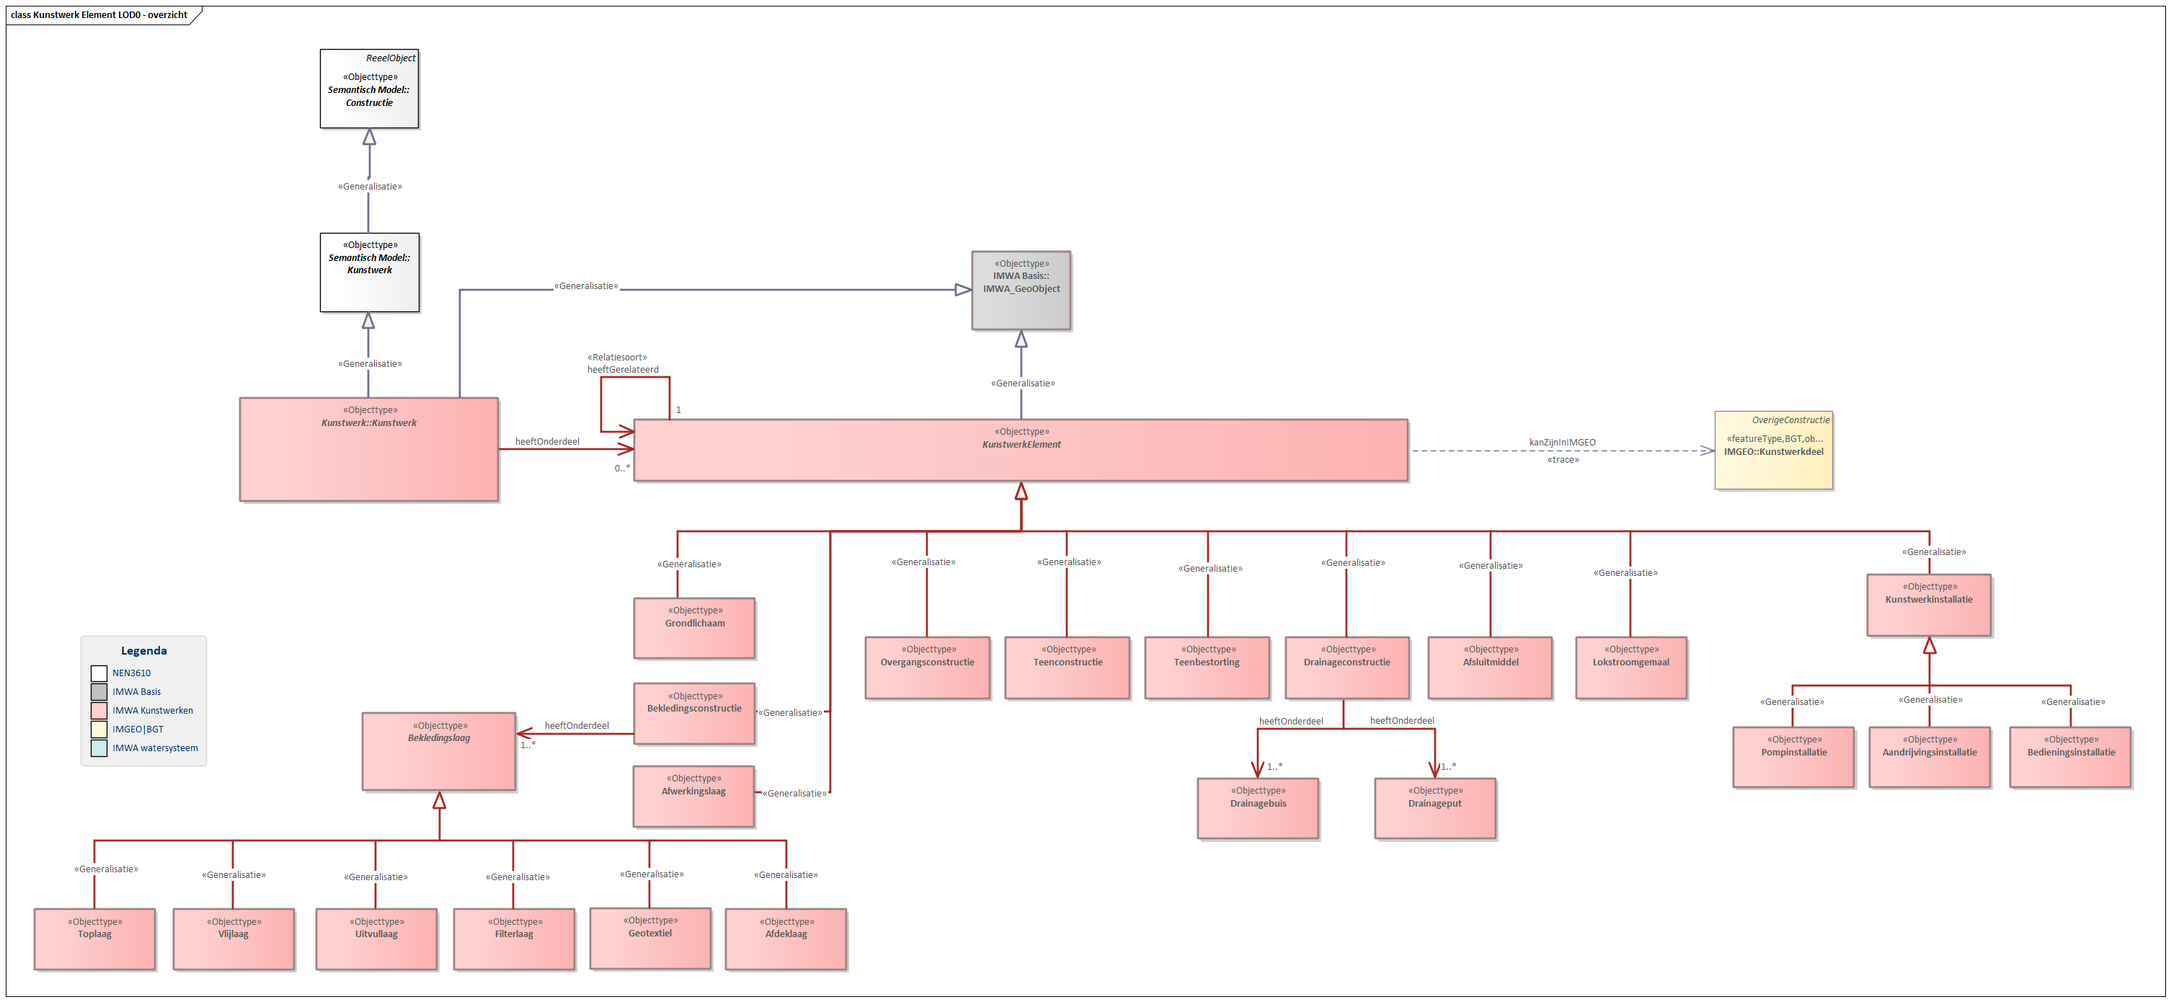
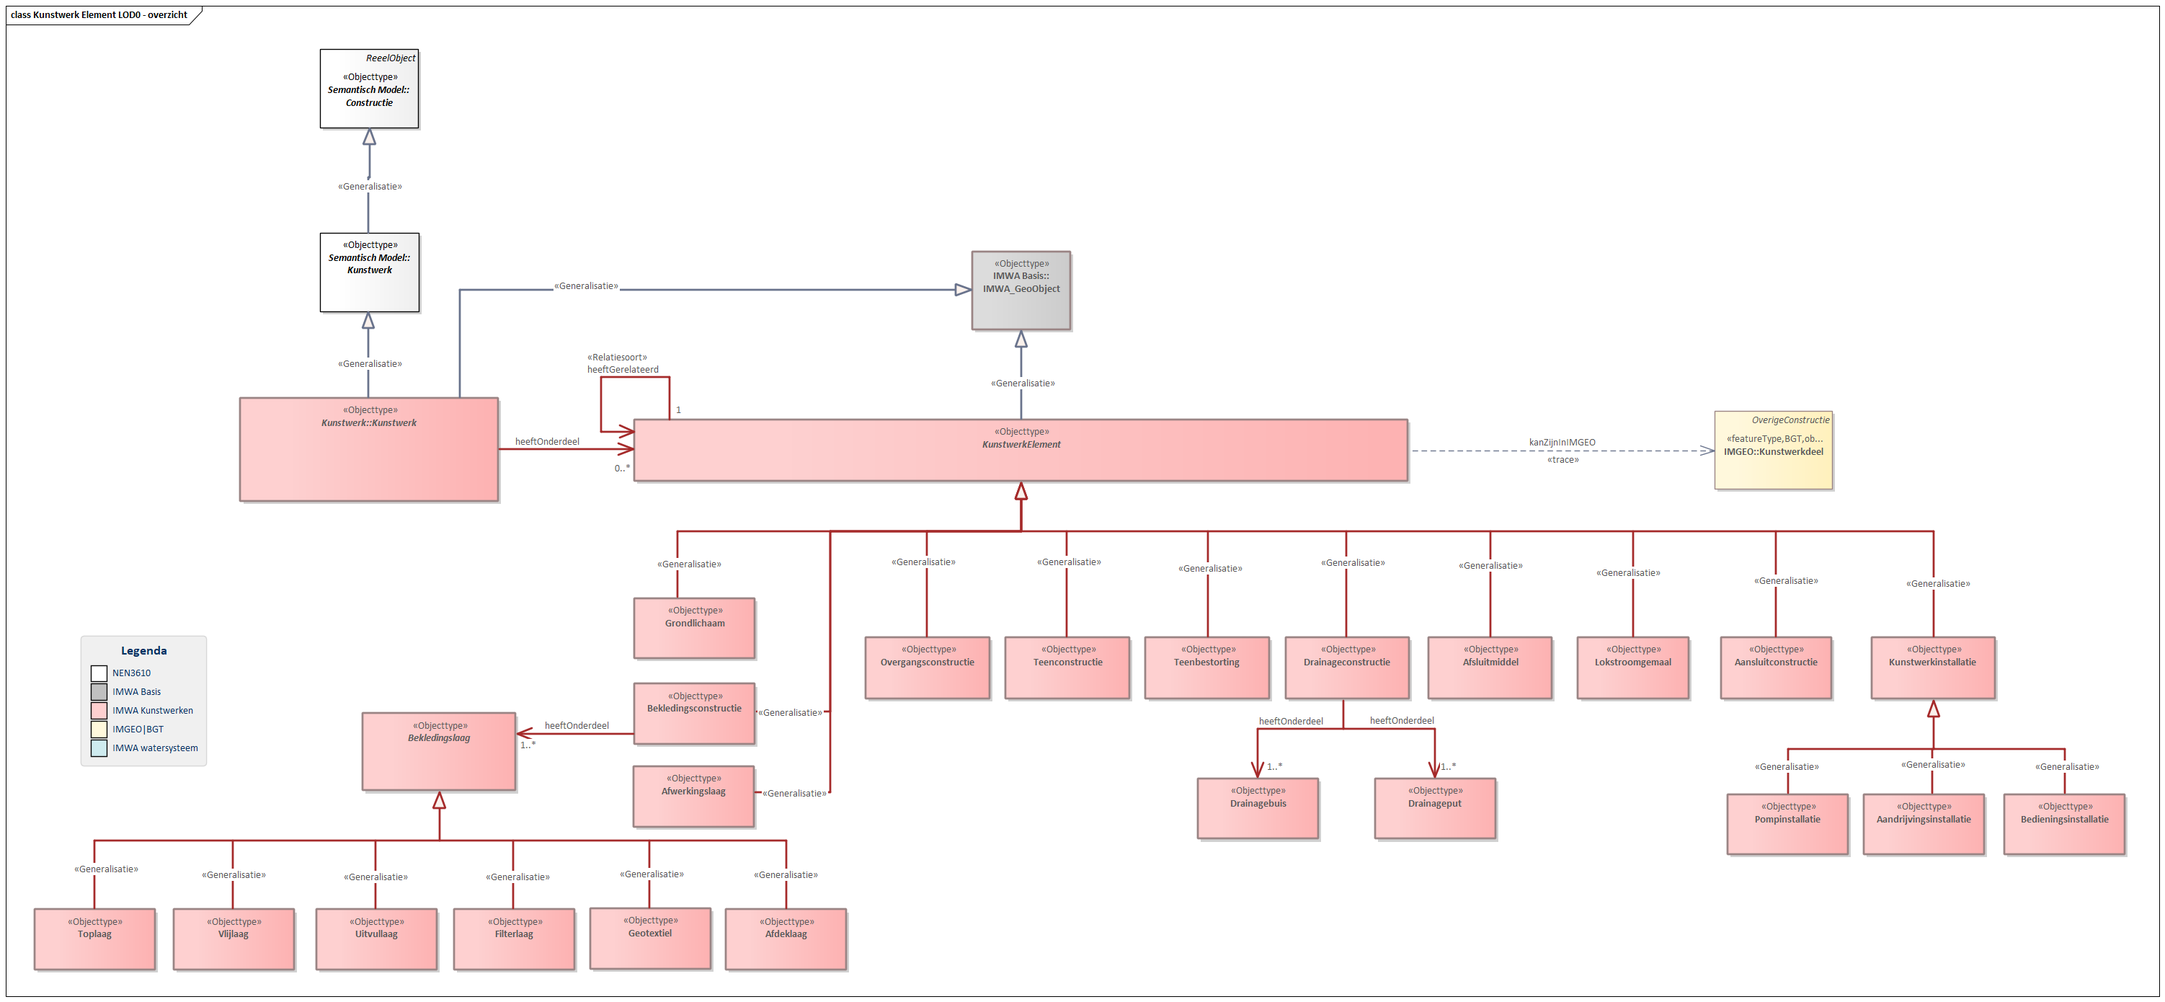
SIM-IMWA2024Kunstwerkenredesign-2024.1.0-1-20231026-20250303-144703

diff --git a/data/IMWA-KW-cat.respec.full.html b/data/IMWA-KW-cat.respec.full.html
@@ -32,7 +32,7 @@
       </section>
       <section id="sotd">
          <p>
-            Deze documentatie van het conceptueel model is laatst bijgewerkt op March 3, 2025 at 14:31:16.
+            Deze documentatie van het conceptueel model is laatst bijgewerkt op March 3, 2025 at 14:47:31.
             </p>
       </section>
       <section id="prologue" class="informative" level="1">
@@ -44,7 +44,7 @@
       <section id="cat" class="normative">
          <h2>Gegevensdefinitie</h2>
          <p><b>Deze tekst is normatief.</b>
-            <!--SIM-IMWA2024Kunstwerkenredesign-2024.1.0-1-20231026-20250303-143042 imvertor 4.0.0--></p>
+            <!--SIM-IMWA2024Kunstwerkenredesign-2024.1.0-1-20231026-20250303-144703 imvertor 4.0.0--></p>
          <section id="global_package_Kunstwerk">
             <h3>Domein   Kunstwerk</h3>
             <div class="imageinfo overview"><img src="data/Images/EAID_EDE5847C_82B0_4782_A4E9_5D8724544648.png" usemap="#imagemap-EAID_EDE5847C_82B0_4782_A4E9_5D8724544648" alt="Diagram: IMWA Kunstwerken LOD0 - overzicht"><map name="imagemap-EAID_EDE5847C_82B0_4782_A4E9_5D8724544648"><area shape="rect" alt="Strekdam" coords="370,996,529,1091" href="#global_class_Kunstwerk_Strekdam"><area shape="rect" alt="Kunstwerkcomplex" coords="964,622,1188,709" href="#global_class_Kunstwerk_Kunstwerkcomplex"><area shape="rect" alt="Doorstroomopening" coords="1816,767,2040,854" href="#global_class_Kunstwerk_Doorstroomopening"><area shape="rect" alt="Vispassage" coords="1357,995,1516,1089" href="#global_class_Kunstwerk_Vispassage"><area shape="rect" alt="Verbeterinstallatie" coords="1259,1132,1417,1226" href="#global_class_Kunstwerk_Verbeterinstallatie"><area shape="rect" alt="Vuilvang" coords="1456,1133,1614,1227" href="#global_class_Kunstwerk_Vuilvang"><area shape="rect" alt="Gemaal" coords="668,1132,827,1226" href="#global_class_Kunstwerk_Gemaal"><area shape="rect" alt="Overkluizing" coords="2032,995,2191,1089" href="#global_class_Kunstwerk_Overkluizing"><area shape="rect" alt="Tunnel" coords="2796,995,2955,1089" href="#global_class_Kunstwerk_Tunnel"><area shape="rect" alt="Coupure" coords="1062,1132,1220,1226" href="#global_class_Kunstwerk_Coupure"><area shape="rect" alt="Bodemval" coords="570,995,728,1089" href="#global_class_Kunstwerk_Bodemval"><area shape="rect" alt="Voorde" coords="1160,995,1319,1089" href="#global_class_Kunstwerk_Voorde"><area shape="rect" alt="Aquaduct" coords="1852,995,2010,1089" href="#global_class_Kunstwerk_Aquaduct"><area shape="rect" alt="Stuw" coords="767,995,925,1089" href="#global_class_Kunstwerk_Stuw"><area shape="rect" alt="Sifon" coords="2614,995,2773,1089" href="#global_class_Kunstwerk_Sifon"><area shape="rect" alt="Hevel" coords="2433,995,2591,1089" href="#global_class_Kunstwerk_Hevel"><area shape="rect" alt="Duiker" coords="2251,995,2409,1089" href="#global_class_Kunstwerk_Duiker"><area shape="rect" alt="Zandvang" coords="964,995,1122,1089" href="#global_class_Kunstwerk_Zandvang"><area shape="rect" alt="Brug" coords="1671,995,1830,1089" href="#global_class_Kunstwerk_Brug"><area shape="rect" alt="Sluis" coords="865,1132,1024,1226" href="#global_class_Kunstwerk_Sluis"><area shape="rect" alt="Kunstwerk" coords="1257,709,1615,854" href="#global_class_Kunstwerk_Kunstwerk"><area shape="rect" alt="Golfbreker" coords="469,1132,627,1226" href="#global_class_Kunstwerk_Golfbreker"><area shape="rect" alt="Dijk" coords="56,1132,215,1226" href="#global_class_Kunstwerk_Dijk"><area shape="rect" alt="Wandconstructie" coords="150,996,309,1091" href="#global_class_Kunstwerk_Wandconstructie"><area shape="rect" alt="VasteDam" coords="268,1132,426,1226" href="#global_class_Kunstwerk_VasteDam"></map><p><b>IMWA Kunstwerken LOD0 - overzicht</b>
@@ -5285,7 +5285,7 @@
          </section>
          <section id="global_package_KunstwerkElement">
             <h3>Domein   Kunstwerk Element</h3>
-            <div class="imageinfo overview"><img src="data/Images/EAID_7CF75127_DC22_4b0d_80C4_33D8ACF9F52C.png" usemap="#imagemap-EAID_7CF75127_DC22_4b0d_80C4_33D8ACF9F52C" alt="Diagram: Kunstwerk Element LOD0 - overzicht"><map name="imagemap-EAID_7CF75127_DC22_4b0d_80C4_33D8ACF9F52C"><area shape="rect" alt="Lokstroomgemaal" coords="2187,884,2341,970" href="#global_class_KunstwerkElement_Lokstroomgemaal"><area shape="rect" alt="Overgangsconstructie" coords="1201,884,1374,970" href="#global_class_KunstwerkElement_Overgangsconstructie"><area shape="rect" alt="Teenconstructie" coords="1395,884,1568,970" href="#global_class_KunstwerkElement_Teenconstructie"><area shape="rect" alt="Drainageconstructie" coords="1784,884,1956,970" href="#global_class_KunstwerkElement_Drainageconstructie"><area shape="rect" alt="Drainageput" coords="1908,1080,2076,1164" href="#global_class_KunstwerkElement_Drainageput"><area shape="rect" alt="Drainagebuis" coords="1662,1080,1830,1164" href="#global_class_KunstwerkElement_Drainagebuis"><area shape="rect" alt="Teenbestorting" coords="1589,884,1762,970" href="#global_class_KunstwerkElement_Teenbestorting"><area shape="rect" alt="Grondlichaam" coords="880,830,1048,914" href="#global_class_KunstwerkElement_Grondlichaam"><area shape="rect" alt="Afwerkingslaag" coords="879,1063,1047,1148" href="#global_class_KunstwerkElement_Afwerkingslaag"><area shape="rect" alt="Uitvullaag" coords="439,1261,607,1346" href="#global_class_KunstwerkElement_Uitvullaag"><area shape="rect" alt="Toplaag" coords="48,1261,216,1346" href="#global_class_KunstwerkElement_Toplaag"><area shape="rect" alt="Geotextiel" coords="819,1260,987,1345" href="#global_class_KunstwerkElement_Geotextiel"><area shape="rect" alt="Vlijlaag" coords="241,1261,409,1346" href="#global_class_KunstwerkElement_Vlijlaag"><area shape="rect" alt="Filterlaag" coords="630,1261,798,1346" href="#global_class_KunstwerkElement_Filterlaag"><area shape="rect" alt="Afdeklaag" coords="1007,1261,1175,1346" href="#global_class_KunstwerkElement_Afdeklaag"><area shape="rect" alt="Bekledingslaag" coords="503,989,716,1097" href="#global_class_KunstwerkElement_Bekledingslaag"><area shape="rect" alt="Bekledingsconstructie" coords="880,948,1048,1033" href="#global_class_KunstwerkElement_Bekledingsconstructie"><area shape="rect" alt="Bedieningsinstallatie" coords="2789,1009,2957,1093" href="#global_class_KunstwerkElement_Bedieningsinstallatie"><area shape="rect" alt="Kunstwerkinstallatie" coords="2591,797,2763,883" href="#global_class_KunstwerkElement_Kunstwerkinstallatie"><area shape="rect" alt="Aandrijvingsinstallatie" coords="2594,1009,2762,1093" href="#global_class_KunstwerkElement_Aandrijvingsinstallatie"><area shape="rect" alt="KunstwerkElement" coords="880,582,1954,668" href="#global_class_KunstwerkElement_KunstwerkElement"><area shape="rect" alt="Afsluitmiddel" coords="1982,884,2154,970" href="#global_class_KunstwerkElement_Afsluitmiddel"><area shape="rect" alt="Pompinstallatie" coords="2405,1009,2573,1093" href="#global_class_KunstwerkElement_Pompinstallatie"><area shape="rect" alt="Kunstwerk" coords="333,552,692,696" href="#global_class_Kunstwerk_Kunstwerk"></map><p><b>Kunstwerk Element LOD0 - overzicht</b>
+            <div class="imageinfo overview"><img src="data/Images/EAID_7CF75127_DC22_4b0d_80C4_33D8ACF9F52C.png" usemap="#imagemap-EAID_7CF75127_DC22_4b0d_80C4_33D8ACF9F52C" alt="Diagram: Kunstwerk Element LOD0 - overzicht"><map name="imagemap-EAID_7CF75127_DC22_4b0d_80C4_33D8ACF9F52C"><area shape="rect" alt="Aansluitconstructie" coords="2388,884,2542,970" href="#global_class_KunstwerkElement_Aansluitconstructie"><area shape="rect" alt="Lokstroomgemaal" coords="2189,884,2344,970" href="#global_class_KunstwerkElement_Lokstroomgemaal"><area shape="rect" alt="Overgangsconstructie" coords="1201,884,1374,970" href="#global_class_KunstwerkElement_Overgangsconstructie"><area shape="rect" alt="Teenconstructie" coords="1395,884,1568,970" href="#global_class_KunstwerkElement_Teenconstructie"><area shape="rect" alt="Drainageconstructie" coords="1784,884,1956,970" href="#global_class_KunstwerkElement_Drainageconstructie"><area shape="rect" alt="Drainageput" coords="1908,1080,2076,1164" href="#global_class_KunstwerkElement_Drainageput"><area shape="rect" alt="Drainagebuis" coords="1662,1080,1830,1164" href="#global_class_KunstwerkElement_Drainagebuis"><area shape="rect" alt="Teenbestorting" coords="1589,884,1762,970" href="#global_class_KunstwerkElement_Teenbestorting"><area shape="rect" alt="Grondlichaam" coords="880,830,1048,914" href="#global_class_KunstwerkElement_Grondlichaam"><area shape="rect" alt="Afwerkingslaag" coords="879,1063,1047,1148" href="#global_class_KunstwerkElement_Afwerkingslaag"><area shape="rect" alt="Uitvullaag" coords="439,1261,607,1346" href="#global_class_KunstwerkElement_Uitvullaag"><area shape="rect" alt="Toplaag" coords="48,1261,216,1346" href="#global_class_KunstwerkElement_Toplaag"><area shape="rect" alt="Geotextiel" coords="819,1260,987,1345" href="#global_class_KunstwerkElement_Geotextiel"><area shape="rect" alt="Vlijlaag" coords="241,1261,409,1346" href="#global_class_KunstwerkElement_Vlijlaag"><area shape="rect" alt="Filterlaag" coords="630,1261,798,1346" href="#global_class_KunstwerkElement_Filterlaag"><area shape="rect" alt="Afdeklaag" coords="1007,1261,1175,1346" href="#global_class_KunstwerkElement_Afdeklaag"><area shape="rect" alt="Bekledingslaag" coords="503,989,716,1097" href="#global_class_KunstwerkElement_Bekledingslaag"><area shape="rect" alt="Bekledingsconstructie" coords="880,948,1048,1033" href="#global_class_KunstwerkElement_Bekledingsconstructie"><area shape="rect" alt="Bedieningsinstallatie" coords="2781,1102,2949,1186" href="#global_class_KunstwerkElement_Bedieningsinstallatie"><area shape="rect" alt="Kunstwerkinstallatie" coords="2597,884,2769,970" href="#global_class_KunstwerkElement_Kunstwerkinstallatie"><area shape="rect" alt="Aandrijvingsinstallatie" coords="2586,1102,2754,1186" href="#global_class_KunstwerkElement_Aandrijvingsinstallatie"><area shape="rect" alt="KunstwerkElement" coords="880,582,1954,668" href="#global_class_KunstwerkElement_KunstwerkElement"><area shape="rect" alt="Afsluitmiddel" coords="1982,884,2154,970" href="#global_class_KunstwerkElement_Afsluitmiddel"><area shape="rect" alt="Pompinstallatie" coords="2397,1102,2565,1186" href="#global_class_KunstwerkElement_Pompinstallatie"><area shape="rect" alt="Kunstwerk" coords="333,552,692,696" href="#global_class_Kunstwerk_Kunstwerk"></map><p><b>Kunstwerk Element LOD0 - overzicht</b>
                   
                   <p></p>
                   </p>

diff --git a/data/IMWA-KW-cat.respec.html b/data/IMWA-KW-cat.respec.html
@@ -32,7 +32,7 @@
       </section>
       <section id="sotd">
          <p>
-            Deze documentatie van het conceptueel model is laatst bijgewerkt op March 3, 2025 at 14:31:17.
+            Deze documentatie van het conceptueel model is laatst bijgewerkt op March 3, 2025 at 14:47:32.
             </p>
       </section>
       <section id="prologue" class="informative" level="1">
@@ -44,7 +44,7 @@
       <section id="cat" class="normative">
          <h2>Gegevensdefinitie</h2>
          <p><b>Deze tekst is normatief.</b>
-            <!--SIM-IMWA2024Kunstwerkenredesign-2024.1.0-1-20231026-20250303-143042 imvertor 4.0.0--></p>
+            <!--SIM-IMWA2024Kunstwerkenredesign-2024.1.0-1-20231026-20250303-144703 imvertor 4.0.0--></p>
          <section id="global_package_Kunstwerk">
             <h3>Domein   Kunstwerk</h3>
             <div class="imageinfo overview"><img src="data/Images/EAID_EDE5847C_82B0_4782_A4E9_5D8724544648.png" usemap="#imagemap-EAID_EDE5847C_82B0_4782_A4E9_5D8724544648" alt="Diagram: IMWA Kunstwerken LOD0 - overzicht"><map name="imagemap-EAID_EDE5847C_82B0_4782_A4E9_5D8724544648"><area shape="rect" alt="Strekdam" coords="370,996,529,1091" href="#global_class_Kunstwerk_Strekdam"><area shape="rect" alt="Kunstwerkcomplex" coords="964,622,1188,709" href="#global_class_Kunstwerk_Kunstwerkcomplex"><area shape="rect" alt="Doorstroomopening" coords="1816,767,2040,854" href="#global_class_Kunstwerk_Doorstroomopening"><area shape="rect" alt="Vispassage" coords="1357,995,1516,1089" href="#global_class_Kunstwerk_Vispassage"><area shape="rect" alt="Verbeterinstallatie" coords="1259,1132,1417,1226" href="#global_class_Kunstwerk_Verbeterinstallatie"><area shape="rect" alt="Vuilvang" coords="1456,1133,1614,1227" href="#global_class_Kunstwerk_Vuilvang"><area shape="rect" alt="Gemaal" coords="668,1132,827,1226" href="#global_class_Kunstwerk_Gemaal"><area shape="rect" alt="Overkluizing" coords="2032,995,2191,1089" href="#global_class_Kunstwerk_Overkluizing"><area shape="rect" alt="Tunnel" coords="2796,995,2955,1089" href="#global_class_Kunstwerk_Tunnel"><area shape="rect" alt="Coupure" coords="1062,1132,1220,1226" href="#global_class_Kunstwerk_Coupure"><area shape="rect" alt="Bodemval" coords="570,995,728,1089" href="#global_class_Kunstwerk_Bodemval"><area shape="rect" alt="Voorde" coords="1160,995,1319,1089" href="#global_class_Kunstwerk_Voorde"><area shape="rect" alt="Aquaduct" coords="1852,995,2010,1089" href="#global_class_Kunstwerk_Aquaduct"><area shape="rect" alt="Stuw" coords="767,995,925,1089" href="#global_class_Kunstwerk_Stuw"><area shape="rect" alt="Sifon" coords="2614,995,2773,1089" href="#global_class_Kunstwerk_Sifon"><area shape="rect" alt="Hevel" coords="2433,995,2591,1089" href="#global_class_Kunstwerk_Hevel"><area shape="rect" alt="Duiker" coords="2251,995,2409,1089" href="#global_class_Kunstwerk_Duiker"><area shape="rect" alt="Zandvang" coords="964,995,1122,1089" href="#global_class_Kunstwerk_Zandvang"><area shape="rect" alt="Brug" coords="1671,995,1830,1089" href="#global_class_Kunstwerk_Brug"><area shape="rect" alt="Sluis" coords="865,1132,1024,1226" href="#global_class_Kunstwerk_Sluis"><area shape="rect" alt="Kunstwerk" coords="1257,709,1615,854" href="#global_class_Kunstwerk_Kunstwerk"><area shape="rect" alt="Golfbreker" coords="469,1132,627,1226" href="#global_class_Kunstwerk_Golfbreker"><area shape="rect" alt="Dijk" coords="56,1132,215,1226" href="#global_class_Kunstwerk_Dijk"><area shape="rect" alt="Wandconstructie" coords="150,996,309,1091" href="#global_class_Kunstwerk_Wandconstructie"><area shape="rect" alt="VasteDam" coords="268,1132,426,1226" href="#global_class_Kunstwerk_VasteDam"></map><p><b>IMWA Kunstwerken LOD0 - overzicht</b>
@@ -5285,7 +5285,7 @@
          </section>
          <section id="global_package_KunstwerkElement">
             <h3>Domein   Kunstwerk Element</h3>
-            <div class="imageinfo overview"><img src="data/Images/EAID_7CF75127_DC22_4b0d_80C4_33D8ACF9F52C.png" usemap="#imagemap-EAID_7CF75127_DC22_4b0d_80C4_33D8ACF9F52C" alt="Diagram: Kunstwerk Element LOD0 - overzicht"><map name="imagemap-EAID_7CF75127_DC22_4b0d_80C4_33D8ACF9F52C"><area shape="rect" alt="Lokstroomgemaal" coords="2187,884,2341,970" href="#global_class_KunstwerkElement_Lokstroomgemaal"><area shape="rect" alt="Overgangsconstructie" coords="1201,884,1374,970" href="#global_class_KunstwerkElement_Overgangsconstructie"><area shape="rect" alt="Teenconstructie" coords="1395,884,1568,970" href="#global_class_KunstwerkElement_Teenconstructie"><area shape="rect" alt="Drainageconstructie" coords="1784,884,1956,970" href="#global_class_KunstwerkElement_Drainageconstructie"><area shape="rect" alt="Drainageput" coords="1908,1080,2076,1164" href="#global_class_KunstwerkElement_Drainageput"><area shape="rect" alt="Drainagebuis" coords="1662,1080,1830,1164" href="#global_class_KunstwerkElement_Drainagebuis"><area shape="rect" alt="Teenbestorting" coords="1589,884,1762,970" href="#global_class_KunstwerkElement_Teenbestorting"><area shape="rect" alt="Grondlichaam" coords="880,830,1048,914" href="#global_class_KunstwerkElement_Grondlichaam"><area shape="rect" alt="Afwerkingslaag" coords="879,1063,1047,1148" href="#global_class_KunstwerkElement_Afwerkingslaag"><area shape="rect" alt="Uitvullaag" coords="439,1261,607,1346" href="#global_class_KunstwerkElement_Uitvullaag"><area shape="rect" alt="Toplaag" coords="48,1261,216,1346" href="#global_class_KunstwerkElement_Toplaag"><area shape="rect" alt="Geotextiel" coords="819,1260,987,1345" href="#global_class_KunstwerkElement_Geotextiel"><area shape="rect" alt="Vlijlaag" coords="241,1261,409,1346" href="#global_class_KunstwerkElement_Vlijlaag"><area shape="rect" alt="Filterlaag" coords="630,1261,798,1346" href="#global_class_KunstwerkElement_Filterlaag"><area shape="rect" alt="Afdeklaag" coords="1007,1261,1175,1346" href="#global_class_KunstwerkElement_Afdeklaag"><area shape="rect" alt="Bekledingslaag" coords="503,989,716,1097" href="#global_class_KunstwerkElement_Bekledingslaag"><area shape="rect" alt="Bekledingsconstructie" coords="880,948,1048,1033" href="#global_class_KunstwerkElement_Bekledingsconstructie"><area shape="rect" alt="Bedieningsinstallatie" coords="2789,1009,2957,1093" href="#global_class_KunstwerkElement_Bedieningsinstallatie"><area shape="rect" alt="Kunstwerkinstallatie" coords="2591,797,2763,883" href="#global_class_KunstwerkElement_Kunstwerkinstallatie"><area shape="rect" alt="Aandrijvingsinstallatie" coords="2594,1009,2762,1093" href="#global_class_KunstwerkElement_Aandrijvingsinstallatie"><area shape="rect" alt="KunstwerkElement" coords="880,582,1954,668" href="#global_class_KunstwerkElement_KunstwerkElement"><area shape="rect" alt="Afsluitmiddel" coords="1982,884,2154,970" href="#global_class_KunstwerkElement_Afsluitmiddel"><area shape="rect" alt="Pompinstallatie" coords="2405,1009,2573,1093" href="#global_class_KunstwerkElement_Pompinstallatie"><area shape="rect" alt="Kunstwerk" coords="333,552,692,696" href="#global_class_Kunstwerk_Kunstwerk"></map><p><b>Kunstwerk Element LOD0 - overzicht</b>
+            <div class="imageinfo overview"><img src="data/Images/EAID_7CF75127_DC22_4b0d_80C4_33D8ACF9F52C.png" usemap="#imagemap-EAID_7CF75127_DC22_4b0d_80C4_33D8ACF9F52C" alt="Diagram: Kunstwerk Element LOD0 - overzicht"><map name="imagemap-EAID_7CF75127_DC22_4b0d_80C4_33D8ACF9F52C"><area shape="rect" alt="Aansluitconstructie" coords="2388,884,2542,970" href="#global_class_KunstwerkElement_Aansluitconstructie"><area shape="rect" alt="Lokstroomgemaal" coords="2189,884,2344,970" href="#global_class_KunstwerkElement_Lokstroomgemaal"><area shape="rect" alt="Overgangsconstructie" coords="1201,884,1374,970" href="#global_class_KunstwerkElement_Overgangsconstructie"><area shape="rect" alt="Teenconstructie" coords="1395,884,1568,970" href="#global_class_KunstwerkElement_Teenconstructie"><area shape="rect" alt="Drainageconstructie" coords="1784,884,1956,970" href="#global_class_KunstwerkElement_Drainageconstructie"><area shape="rect" alt="Drainageput" coords="1908,1080,2076,1164" href="#global_class_KunstwerkElement_Drainageput"><area shape="rect" alt="Drainagebuis" coords="1662,1080,1830,1164" href="#global_class_KunstwerkElement_Drainagebuis"><area shape="rect" alt="Teenbestorting" coords="1589,884,1762,970" href="#global_class_KunstwerkElement_Teenbestorting"><area shape="rect" alt="Grondlichaam" coords="880,830,1048,914" href="#global_class_KunstwerkElement_Grondlichaam"><area shape="rect" alt="Afwerkingslaag" coords="879,1063,1047,1148" href="#global_class_KunstwerkElement_Afwerkingslaag"><area shape="rect" alt="Uitvullaag" coords="439,1261,607,1346" href="#global_class_KunstwerkElement_Uitvullaag"><area shape="rect" alt="Toplaag" coords="48,1261,216,1346" href="#global_class_KunstwerkElement_Toplaag"><area shape="rect" alt="Geotextiel" coords="819,1260,987,1345" href="#global_class_KunstwerkElement_Geotextiel"><area shape="rect" alt="Vlijlaag" coords="241,1261,409,1346" href="#global_class_KunstwerkElement_Vlijlaag"><area shape="rect" alt="Filterlaag" coords="630,1261,798,1346" href="#global_class_KunstwerkElement_Filterlaag"><area shape="rect" alt="Afdeklaag" coords="1007,1261,1175,1346" href="#global_class_KunstwerkElement_Afdeklaag"><area shape="rect" alt="Bekledingslaag" coords="503,989,716,1097" href="#global_class_KunstwerkElement_Bekledingslaag"><area shape="rect" alt="Bekledingsconstructie" coords="880,948,1048,1033" href="#global_class_KunstwerkElement_Bekledingsconstructie"><area shape="rect" alt="Bedieningsinstallatie" coords="2781,1102,2949,1186" href="#global_class_KunstwerkElement_Bedieningsinstallatie"><area shape="rect" alt="Kunstwerkinstallatie" coords="2597,884,2769,970" href="#global_class_KunstwerkElement_Kunstwerkinstallatie"><area shape="rect" alt="Aandrijvingsinstallatie" coords="2586,1102,2754,1186" href="#global_class_KunstwerkElement_Aandrijvingsinstallatie"><area shape="rect" alt="KunstwerkElement" coords="880,582,1954,668" href="#global_class_KunstwerkElement_KunstwerkElement"><area shape="rect" alt="Afsluitmiddel" coords="1982,884,2154,970" href="#global_class_KunstwerkElement_Afsluitmiddel"><area shape="rect" alt="Pompinstallatie" coords="2397,1102,2565,1186" href="#global_class_KunstwerkElement_Pompinstallatie"><area shape="rect" alt="Kunstwerk" coords="333,552,692,696" href="#global_class_Kunstwerk_Kunstwerk"></map><p><b>Kunstwerk Element LOD0 - overzicht</b>
                   
                   <p></p>
                   </p>
